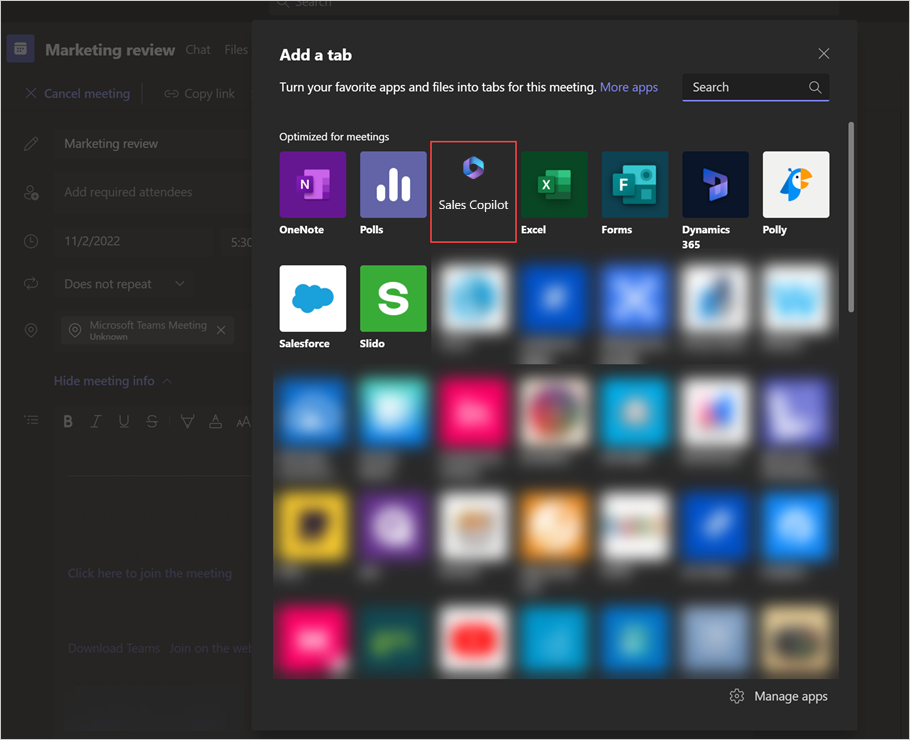
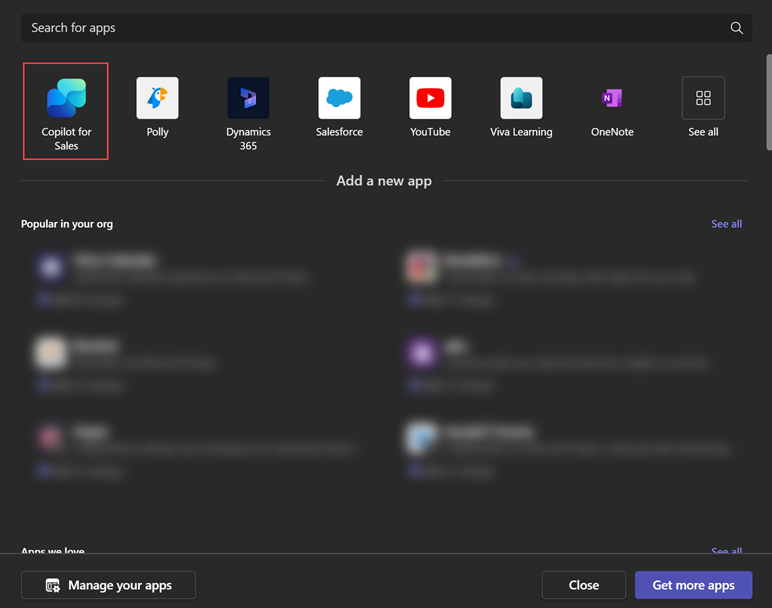
Add app to Teams meeting
Category: Content-Improvement

Workitem: https://dev.azure.com/dynamicscrm/OneCRM/_workitems/edit/3862031/?view=edit

Description: Add app to Teams meeting

diff --git a/articles/create-teams-meeting.md b/articles/create-teams-meeting.md
@@ -1,7 +1,7 @@
 ---
 title: Create a Teams meeting
 description: Learn how to create a Teams meeting.
-ms.date: 02/02/2024
+ms.date: 03/04/2024
 ms.topic: article
 ms.service: microsoft-sales-copilot
 author: sbmjais
@@ -10,15 +10,22 @@ ms.author: shjais
 
 # Create a Teams meeting
 
-Your Copilot for Sales journey starts when you schedule a Microsoft Teams meeting and invite at least one external participant. The Copilot for Sales app is added automatically to the meeting.
+Your Copilot for Sales journey starts when you schedule a Microsoft Teams meeting and invite at least one external participant. The Copilot for Sales app is added automatically to the meeting. If the app is not added automatically, you can manually add it to the meeting.
 
-> [!NOTE]
-> Only meeting organizers can manually add the Copilot for Sales app to a Teams meeting.
+## Add the Copilot for Sales app automatically to a Teams meeting
 
-Requirements for Copilot for Sales app to be added automatically to a Teams meeting:
+The Copilot for Sales app is added automatically to a Teams meeting when the following conditions are met:
 
 - You must invite at least one external participant to the meeting.
 
 - You must transcribe the meeting for Copilot for Sales to generate insights.
 
-- If you create a recurring meeting, the Copilot for Sales app is added to all occurrences of the meeting.
+If you create a recurring meeting, the Copilot for Sales app is added to all occurrences of the meeting if the above conditions are met.
+
+## Add the Copilot for Sales app manually to a Teams meeting
+
+If the Copilot for Sales app is not added automatically to a Teams meeting, a meeting organizer can manually add the app to the meeting. The app is visible only to the participants who are in the same tenant as the meeting organizer.
+
+Once the app is added to a recurring meeting, it's added to all occurrences of the meeting.
+
+For steps to manually add the Copilot for Sales app to a Teams meeting, see [How can I add the Copilot for Sales app manually to a Teams meeting?](sales-copilot-faq.md#how-can-i-add-the-copilot-for-sales-app-manually-to-a-teams-meeting)
